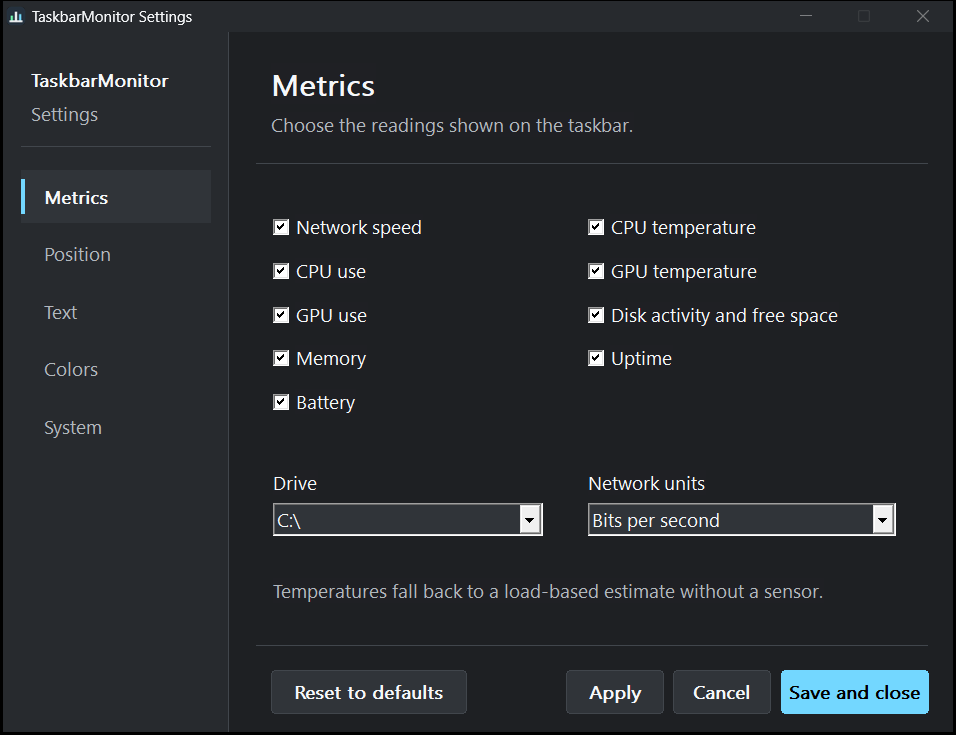
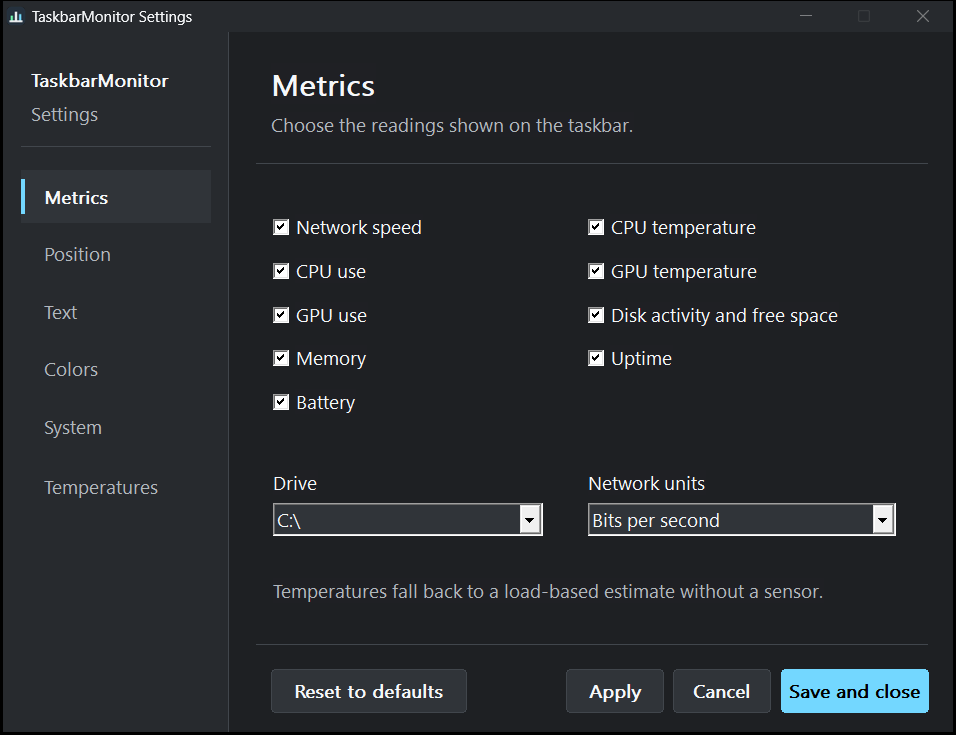
Simplify the README and add settings screenshots

diff --git a/README.md b/README.md
@@ -1,229 +1,52 @@
 # TaskbarMonitor
 
-<img src="assets/logo.svg" alt="TaskbarMonitor logo" width="72" height="72">
+<img src="assets/logo.svg" alt="TaskbarMonitor logo" width="64" height="64">
 
-Hardware monitor that runs inside the Windows taskbar. Written in C++17 using Win32 APIs and double-buffered GDI, with a small in-process sensor engine for direct and vendor-provided readings.
+See network speeds, CPU and GPU usage and temperatures, memory, disk space, battery, and uptime right in the Windows taskbar.
 
-The logo source is [assets/logo.svg](assets/logo.svg). The Windows icon and PNG are generated with `python tools/generate_icon.py` (requires Pillow and PyMuPDF for asset generation only).
+**[Download TaskbarMonitor for Windows](https://github.com/kuy124/TaskbarMonitor/releases/latest)**
 
-## Automatic updates
+![TaskbarMonitor's two rows of readings: network speeds, CPU and GPU usage and temperatures, RAM, disk, battery, and uptime](screenshots/taskbar.png)
 
-TaskbarMonitor checks the public GitHub releases API on startup and every 24 hours.
-No GitHub token is needed. When a newer stable version is available, you can choose
-whether to download, install, and restart. Disable automatic checks in
-**Settings → Advanced → Check for updates automatically**, then click **Apply**.
+## Quick start
 
-Updates require a writable application folder. Downloads are checked against
-GitHub's SHA-256 release digest and the executable version before replacement.
-Failed checks leave the monitor running; failed replacements preserve the old
-executable. Releases without a checksum are not installed automatically.
+1. Download the ZIP under **Assets**, extract it, and run `TaskbarMonitor.exe`.
+2. When prompted, choose whether to start with Windows and use measured temperatures.
+3. Double-click the tray icon to open **Settings**. If it’s hidden, look under the arrow beside the clock. Pick the readings you want under **Metrics**, then click **Apply**.
 
-## Screenshots
+![Metrics settings with checkboxes for each reading, a drive selector, and network speed units](screenshots/settings.png)
 
-### Taskbar monitor
+## Customize the taskbar
 
-![Taskbar monitor showing live network, CPU, GPU, memory, disk, battery, and uptime metrics](screenshots/taskbar.png)
+- **Position:** Move the monitor to the left, center, or next to the system tray. Choose **Custom coordinates** to fine-tune placement, and adjust spacing and dividers here too.
+- **Text and Colors:** Pick a font, change the colors, or use a transparent background.
+- **System:** Change **Start with Windows** and **Check for updates automatically**.
 
-### Settings
+![Position settings with alignment, horizontal offset, vertical nudge, spacing, and divider controls](screenshots/position.png)
 
-![Settings window with controls for visible metrics, appearance, and refresh intervals](screenshots/settings.png)
+## CPU and GPU temperatures
 
-## Metrics
+If you skipped measured temperatures at setup, check **Use built-in hardware sensors** in **Settings → Temperatures** and click **Apply**. Choose **Refresh sensors** to check for readings, then **Use detected readings** to show them on the taskbar.
 
-The monitor renders a two-row status block inside the taskbar.
+A `~` means the temperature is estimated. If a sensor shows `N/A`, try **Enable sensor access** or **Install sensor driver** if offered. Windows may ask for administrator permission.
 
-Network readings show transfer rates, not cumulative totals. Small transfers use B/s or bps so they do not round down to zero; larger rates use KB/s, MB/s, or the corresponding bit units. A full interval with no traffic still shows zero.
+![Temperatures settings with example CPU and GPU readings, their sensor sources, and the Refresh sensors button](screenshots/temperatures.png)
 
-| Metric | Display | Data Source |
-| :--- | :--- | :--- |
-| Network | Upload / Download speed | GetIfTable2 across active non-loopback interfaces |
-| CPU Usage | CPU % | GetSystemTimes kernel, idle, and user differentials |
-| CPU Temp | Degrees Celsius | Direct CPU sensors, Windows thermal zones, optional monitor telemetry, or explicitly marked estimates |
-| GPU Usage | GPU % | PDH \GPU Engine(*)\Utilization Percentage (capped at 100%) |
-| GPU Temp | Degrees Celsius | NVIDIA/AMD/Intel GPU APIs, Windows WDDM, external monitor telemetry, or explicitly marked estimates |
-| Memory | RAM % and Used GB | GlobalMemoryStatusEx |
-| Disk | Activity % and Free Space | PDH PhysicalDisk(_Total) and GetDiskFreeSpaceExW |
-| Battery | Charge % and AC status | GetSystemPowerStatus (hides automatically on AC-only desktops) |
-| Uptime | System uptime | GetTickCount64 |
+*Example readings. Available sensors depend on your hardware.*
 
-If a system lacks an exposed thermal sensor, the monitor estimates temperature based on system load. Estimates are marked with `~` (for example, `~65°C`); measured readings have no prefix. GPU utilization reports the busiest physical engine, combining process counters for that engine rather than summing unrelated engines.
+To remove TaskbarMonitor, turn off **Start with Windows**, choose **Exit Monitor** from the tray menu, and delete the extracted app folder.
 
-## Built-in temperature readings
+<details>
+<summary>Build from source</summary>
 
-On the first interactive launch, TaskbarMonitor asks whether to measure CPU and GPU temperatures. **Yes** starts reading the sensors and keeps the monitor on the taskbar. If a selected reading needs privileged access, Windows asks for administrator permission; the monitor installs the bundled, signed PawnIO driver only if needed. Declining the Windows prompt keeps the current monitor running. **No** uses load-based estimates marked with `~`. **Cancel** uses estimates for this session and asks again next time. Change the choice in **Settings → Temperatures**.
+On Windows, use CMake with an x64 C++17 toolchain (MinGW-w64 or MSVC) and .NET Framework 4.7.2 or later.
 
-Normal manual launches reuse a saved Yes and can request sensor access again if needed. If a driver is missing on a later launch, the monitor asks before installing it. Windows sign-in launches stay quiet; if you haven't chosen yet, the question appears when you first open Settings.
-
-A sensor engine is embedded in TaskbarMonitor.exe and loaded in-process. It reads CPU and GPU hardware through LibreHardwareMonitor's sensor library, Windows, and graphics driver APIs. There is **no separate monitoring app to install, run, or configure** for the built-in readings.
-
-The page shows detected temperatures and their sensor sources, **Refresh sensors**, and **Use detected readings**. CPU package and physical Tdie readings take priority over core or CCD readings. Generic ACPI/WMI zones are low-priority fallbacks that keep their source label because they can measure an area other than the CPU die. Readings above 90°C remain visible with a cooling warning.
-
-GPU detection checks NVIDIA GeForce and other NVIDIA cards through NVAPI/NVML, AMD Radeon cards and APUs through ADLX or ADL, and Intel graphics through IGCL, Level Zero Sysman, and the integrated graphics sensor where supported. Windows WDDM and optional telemetry fill gaps. Core readings take priority over hotspot readings. CPU package temperature is never substituted for GPU temperature. On multi-GPU systems the monitor shows one preferred reading.
-
-Memory, VRM, thermal limits, and distance-to-TjMax readings are excluded. A provider that fails to initialize no longer prevents the remaining providers from reporting temperatures.
-
-On supported systems, **Enable sensor access** requests administrator permission to read the CPU and compatible Intel integrated graphics sensors directly. If the signed PawnIO driver is missing, **Install sensor driver** sets it up from inside TaskbarMonitor. An existing compatible driver is used as-is. The current monitor stays running if UAC is cancelled or the restart fails. Use the same Windows account when approving UAC.
-
-Direct temperature support varies by hardware, firmware, and Windows driver access. If a machine doesn't expose a reading, the page shows N/A and taskbar estimates remain marked with `~`. Automatic updates pause in elevated sessions and resume on normal launches.
-
-The .NET Framework 4.7.2+ runtime is required (included on current Windows releases). The embedded sensor libraries and license notice are extracted to `%LOCALAPPDATA%\TaskbarMonitor\Sensors` and checked against the embedded resources before loading.
-
-### Additional temperature sources
-
-The built-in engine and its optional fallbacks cover:
-
-- **NVIDIA NVAPI and NVML:** GPU core temperature from an installed NVIDIA driver.
-- **[AMD ADLX](https://gpuopen.com/adlx/):** Radeon core temperature, with hotspot as a fallback, when the installed AMD driver exposes either reading.
-- **AMD ADL:** Radeon core/edge and junction temperatures through Overdrive and PMLog, depending on the installed driver.
-- **[Windows WDDM](https://learn.microsoft.com/en-us/windows-hardware/drivers/ddi/d3dkmthk/ns-d3dkmthk-_d3dkmt_adapter_perfdata):** checks the temperatures of both display-connected and render-only GPUs, including linked physical adapters, where the driver supports it.
-- **Intel IGCL temperature sensors:** standalone ControlLib GPU sensor enumeration.
-- **Intel Level Zero Sysman:** GPU-specific sensors when an installed `ze_loader.dll`
-  and graphics driver support standalone Sysman.
-- **Intel GT cores:** the separate graphics-domain sensor on supported Kaby Lake,
-  Coffee Lake, Tiger Lake, and Alder Lake integrated GPUs, using PawnIO with administrator access.
-- **Windows thermal-zone counters:** can report firmware temperatures on systems where the usual ACPI WMI query is unavailable. CPU-labelled zones are preferred; the source is labelled as a thermal zone because it may measure an area around the CPU.
-- **[Core Temp shared memory](https://www.alcpu.com/CoreTemp/developers.html):** reads the hottest valid CPU temperature when Core Temp is running. Supports Celsius and Fahrenheit; distance-to-TjMax mode is ignored.
-- **HWiNFO shared memory:** enable Shared Memory Support in a running HWiNFO.
-  Reads CPU and explicitly labelled GPU / CPU GT Cores temperatures; rejects stale
-  data. The free HWiNFO edition limits shared-memory sessions to 12 hours.
-- **AIDA64 shared memory:** enable Preferences → Hardware Monitoring → External
-  Applications → Enable shared memory in a running AIDA64.
-- **LibreHardwareMonitor / OpenHardwareMonitor WMI:** reads CPU/GPU temperatures from a running version that publishes the WMI provider.
-- **Acer NitroSense telemetry:** subscribes to NitroSense loopback MQTT broker on
-  port 15150 while NitroSense's monitoring UI is open. Covers missing CPU and GPU readings, checks message
-  freshness, and accepts only the pinned local `CN=localhost` certificate. Set a DWORD
-  named `NitroSenseMqttPort` under `HKCU\Software\TaskbarMonitor` if another NitroSense
-  build uses a different port.
-
-Settings → Temperatures identifies the selected source. External programs are optional,
-not bundled or started automatically. Probe-based fallbacks run every five seconds on the
-sensor worker, not the UI thread. NitroSense publishes telemetry only while its
-monitoring UI is open, about every ten seconds. Intel APIs require a compatible 64-bit runtime and
-driver. Unsupported sensors stay unavailable; CPU package temperature is never used
-as GPU temperature. With multiple GPUs, additional fallbacks select the hottest valid
-GPU sensor, excluding memory and thermal-limit readings.
-
-Run `powershell -NoProfile -ExecutionPolicy Bypass -File tools/test_temperature_device.ps1 -SensorDirectory build/sensors`
-to capture live readings and vendor API availability. Use `-RequireDirectCpu`, `-RequireDirectGpu`, or both to verify that the built-in engine reports direct readings. The Intel UHD graphics in the Lenovo 82KA / Core i3-1115G4 was verified using **Intel GT cores** with administrator access.
-
-## Settings
-
-Open the configuration window by double-clicking the tray icon or right-clicking and selecting Settings.
-You can also launch `TaskbarMonitor.exe --settings` to open it directly.
-
-### Metrics
-Toggle metrics on or off. Set the target drive letter for storage monitoring and select network speed units (Bytes/s or Bits/s).
-
-### Position
-- Alignment: Left, Right (tray adjacent), Center, or Custom.
-- Coordinates: The horizontal offset is measured from the taskbar edge. The vertical nudge shifts the readings up or down inside the taskbar band.
-- The monitor is a child of the taskbar. It sits in a gap clear of Search, app buttons, and the system tray, and never floats above the desktop. Brief layout-read failures reuse the last valid layout for up to two seconds.
-- The monitor fills the taskbar band, so it matches the taskbar height and DPI automatically. Each value sits directly after its label, and the reserved width keeps routine updates from resizing or shifting the layout.
-- When auto-hide collapses the taskbar, the monitor slides away with it.
-- Item gap spacing adjusts the space between readings.
-- Dividers: Toggle vertical lines between metric columns.
-
-### Text
-- Font: Choose any installed Windows font.
-- Size: 1 pt to 24 pt.
-- Weight: Normal, Medium, Semi-Bold, or Bold.
-- Preview: Shows the selected font with current CPU and memory readings before saving.
-
-### Colors
-- Presets: Auto (matches Windows accent and dark/light mode), Dark, Light, or Custom.
-- Custom colors: Independent color pickers for labels, values, upload, download, dividers, and background.
-- Transparent background: Toggles window color-key transparency.
-- Auto-contrast: Adjusts font luminosity when background contrast falls below readable thresholds.
-
-### System
-- Polling Rate: Sensor refresh interval in milliseconds (minimum 100 ms, default 1000 ms).
-- Settings Theme: Follow Windows, Dark Mode, or Light Mode.
-- Autostart: Writes the executable path to the per-user Run key and checks whether Windows Startup Apps has disabled it. The Advanced tab shows the effective state. Enabling the option repairs a Windows-side disable, while unrelated settings changes leave an external disable untouched.
-- Click-Through Mode: Sets WS_EX_TRANSPARENT so mouse clicks pass directly to the taskbar.
-
-### Temperatures
-- Built-in sensor engine, live hardware status, sensor refresh, and one-click use of detected readings. No external sensor setup.
-- Settings-save errors are reported without closing the settings window; some registry values may already have been written, so retry after fixing permissions.
-
-## Tray Menu
-
-Right-click the notification icon in the system tray:
-
-- Settings: Opens configuration window.
-- Open Task Manager: Runs taskmgr.exe.
-- Refresh Theme: Re-reads Windows colors and redraws immediately.
-- Click-Through Mode: Toggles mouse click pass-through.
-- Exit Monitor: Closes the application.
-
-## Build Requirements
-
-- Compiler: MinGW-w64 (GCC 10+) or MSVC (Visual Studio 2019+)
-- Windows SDK
-- C++17 support
-- .NET Framework 4.7.2+ and its C# compiler (included with the Framework)
-- The first build downloads the pinned sensor library and signed driver installer. Subsequent builds can use the cached downloads.
-
-### Build with Batch File (MinGW)
-Runs windres, builds TaskbarMonitor.exe with g++, and self-signs the binary:
-```bat
-build.bat
+```powershell
+cmake -S . -B build
+cmake --build build --config Release
+ctest --test-dir build -C Release --output-on-failure
 ```
 
-### Build with Make
-```bat
-make
-```
+</details>
 
-### Build with CMake
-```bat
-mkdir build
-cd build
-cmake ..
-cmake --build . --config Release
-ctest --output-on-failure -C Release
-```
-
-### Linked System Libraries
-- iphlpapi
-- gdi32
-- dwmapi
-- pdh
-- psapi
-- shell32
-- comctl32
-- comdlg32
-- ole32
-- oleaut32
-- wbemuuid
-- advapi32
-
-### Optional Runtime Libraries
-These are used when the installed driver provides them:
-- nvml.dll: NVIDIA Management Library (GPU temperature)
-- amdadlx64.dll / amdadlx32.dll: AMD Device Library eXtra (GPU temperature)
-- atiadlxx.dll: AMD Display Library (GPU temperature)
-- ControlLib.dll: Intel Graphics Control Library (GPU temperature)
-- ze_loader.dll: Intel Level Zero Sysman (GPU temperature)
-
-If neither the embedded engine nor optional providers give a reading, temperature falls back to a load-based estimate marked with `~`.
-
-## Configuration & Uninstallation
-
-All settings are stored in the Windows Registry under:
-`HKCU\Software\TaskbarMonitor`
-
-Autostart entry:
-`HKCU\Software\Microsoft\Windows\CurrentVersion\Run\TaskbarMonitor`
-
-To uninstall, disable autostart in Settings, close the program, and delete the executable. The extracted sensor cache can also be deleted from `%LOCALAPPDATA%\TaskbarMonitor\Sensors`. If you enabled the optional PawnIO driver, Windows lists it separately in Installed apps; other hardware tools may also use it.
-
-When the application is launched manually, a startup prompt appears only when Windows startup is not effectively enabled. Launches from the startup entry do not show the prompt. Choosing Keep Disabled leaves the current Windows startup state unchanged.
-
-## Release packaging
-
-Build the release executable, then run `powershell -NoProfile -ExecutionPolicy Bypass -File tools/package_release.ps1 -Executable build-check/TaskbarMonitor.exe`.
-The ZIP contains exactly `TaskbarMonitor/TaskbarMonitor.exe` using forward slashes, as required by the 1.2.5 updater. MinGW builds statically link their runtimes so the updater does not need to extract extra DLLs.
-
-## License
-
-TaskbarMonitor is MIT licensed. LibreHardwareMonitorLib is MPL 2.0, and its dependencies retain their upstream licenses. The unmodified PawnIO installer retains its upstream terms; the bundled IntelMCHBAR module is LGPL 2.1 or later. Source links and component notices are in the license dialog and sensor cache.
+TaskbarMonitor is MIT-licensed. For bundled components, see **Settings → Temperatures → Source and licenses**.
